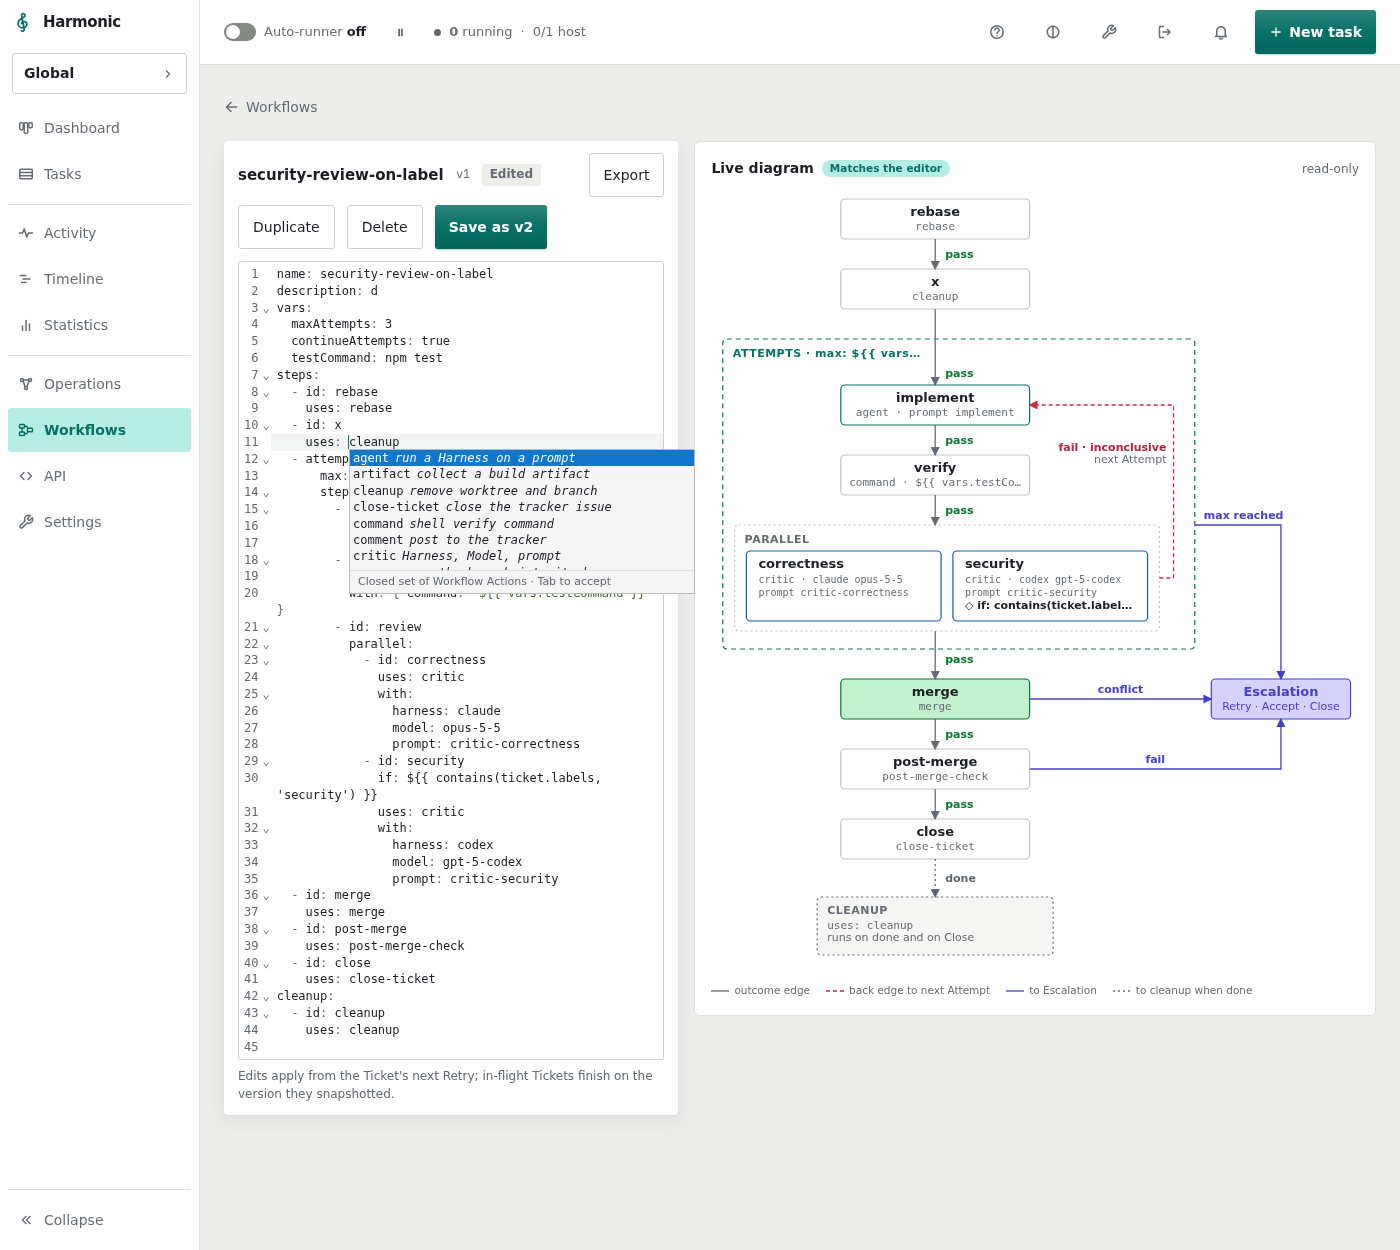
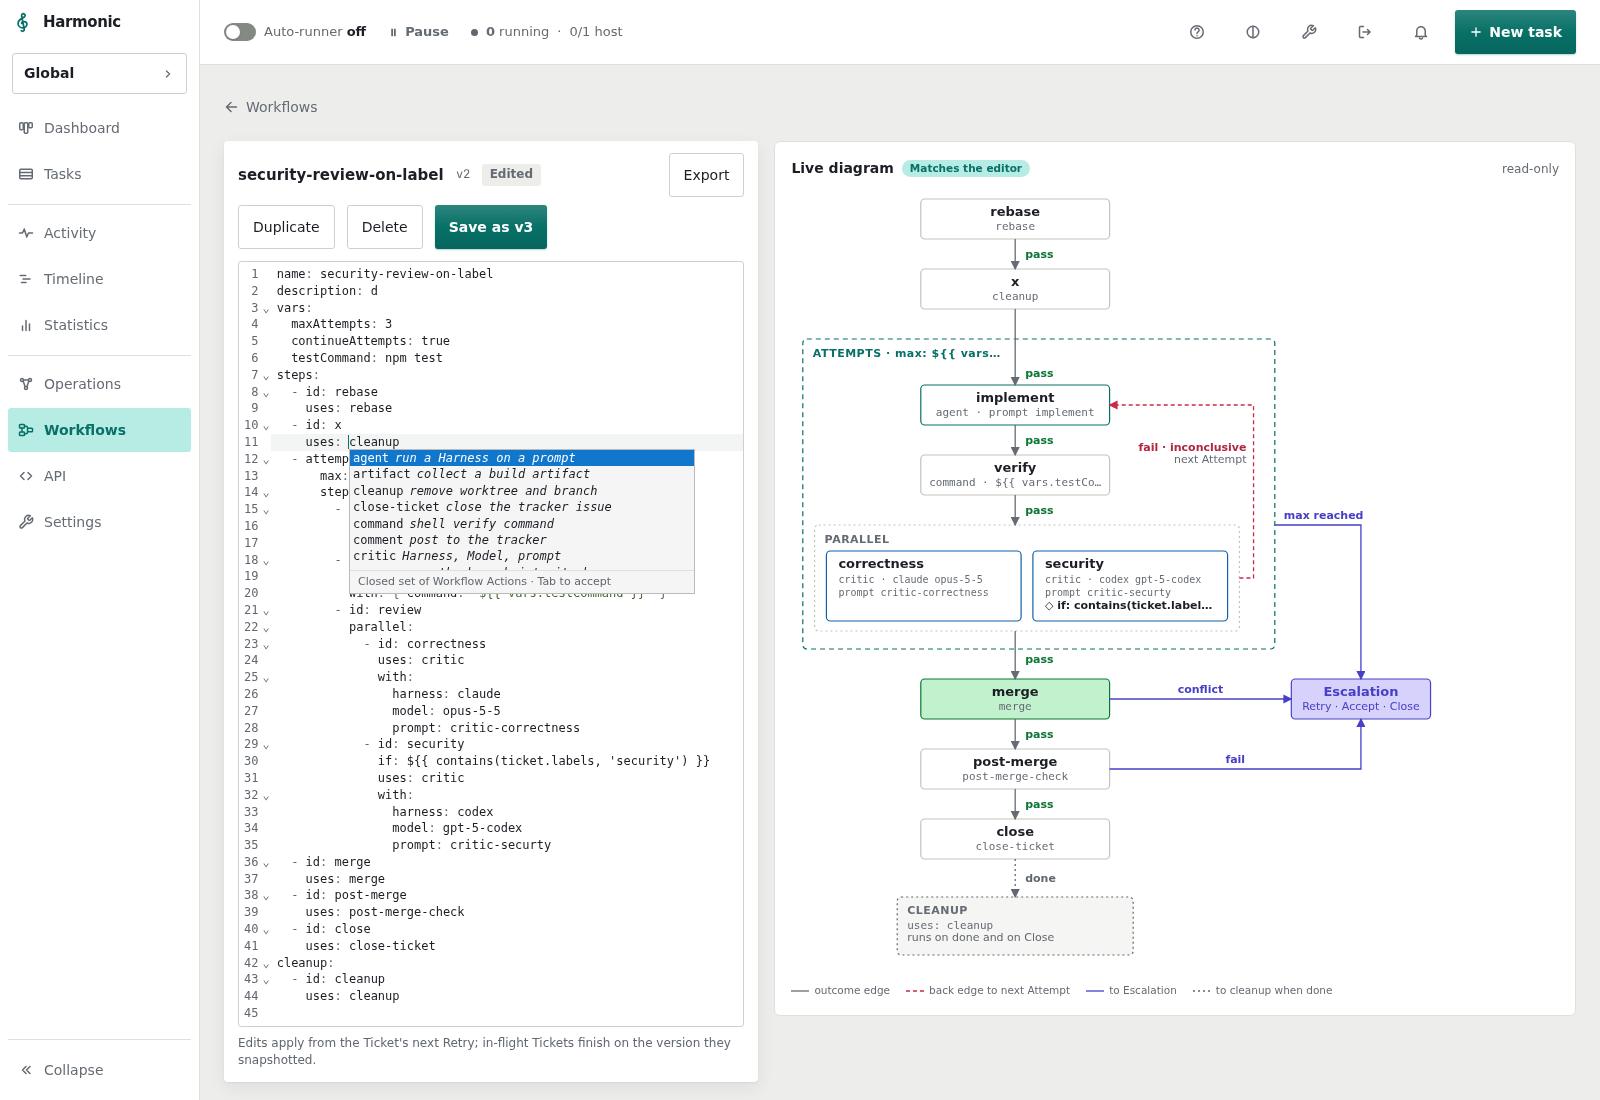
fix(workflows): error list, schema/server source tags and red line numbers in the editor (#920)
Server save refusals are now tagged server next to client schema errors, and
the editor keeps one last-valid-parse mechanism instead of a test-only stale
path in validateWorkflowText. Screenshots re-shot, including a server-refusal
shot.

diff --git a/web/src/components/workflows/YamlEditor.tsx b/web/src/components/workflows/YamlEditor.tsx
@@ -1,22 +1,21 @@
 import { useEffect, useRef } from 'react';
-import { Compartment, EditorState, StateEffect, StateField, type Extension } from '@codemirror/state';
-import { Decoration, EditorView, WidgetType, type DecorationSet } from '@codemirror/view';
+import { Compartment, EditorState, RangeSet, StateEffect, StateField, type Extension } from '@codemirror/state';
+import { Decoration, EditorView, GutterMarker, WidgetType, gutterLineClass, type DecorationSet } from '@codemirror/view';
 import { basicSetup } from 'codemirror';
 import { acceptCompletion, type CompletionContext } from '@codemirror/autocomplete';
 import { keymap } from '@codemirror/view';
 import { completeWorkflow } from '../../../../src/domain/workflow-completion.js';
 import { LanguageDescription, syntaxHighlighting } from '@codemirror/language';
 import { languages } from '@codemirror/language-data';
-import type { WorkflowIssue } from '../../types';
-import { messageParts } from '../../workflow-editor-model';
+import { messageParts, type WorkflowEditorIssue } from '../../workflow-editor-model';
 import { paperHighlight, paperTheme } from '../CodeViewer';
 
 class IssueWidget extends WidgetType {
-  constructor(private readonly issue: WorkflowIssue) {
+  constructor(private readonly issue: WorkflowEditorIssue) {
     super();
   }
   eq(other: IssueWidget) {
-    return other.issue.line === this.issue.line && other.issue.column === this.issue.column && other.issue.message === this.issue.message;
+    return other.issue.line === this.issue.line && other.issue.column === this.issue.column && other.issue.message === this.issue.message && other.issue.source === this.issue.source;
   }
   toDOM() {
     const el = document.createElement('div');
@@ -24,16 +23,22 @@ class IssueWidget extends WidgetType {
     el.setAttribute('role', 'alert');
     el.dataset.line = String(this.issue.line);
     el.dataset.column = String(this.issue.column);
-    el.append(`Line ${this.issue.line}, col ${this.issue.column}: `);
+    const source = document.createElement('span');
+    source.className = 'cm-issue-src';
+    source.textContent = this.issue.source;
+    const where = document.createElement('b');
+    where.textContent = `Line ${this.issue.line}, col ${this.issue.column}:`;
+    const message = document.createElement('span');
     for (const part of messageParts(this.issue.message)) {
-      if (!part.code) el.append(part.text);
+      if (!part.code) message.append(part.text);
       else {
         const chip = document.createElement('code');
         chip.className = 'cm-issue-chip';
         chip.textContent = part.text;
-        el.append(chip);
+        message.append(chip);
       }
     }
+    el.append(source, where, message);
     return el;
   }
 }
@@ -44,9 +49,9 @@ const completionSource = (ctx: CompletionContext) => {
   return { from: hit.from, options: hit.options.map((o) => ({ label: o.label, detail: o.detail, type: 'keyword' })), validFor: /^[\w-]*$/ };
 };
 
-const setIssues = StateEffect.define<readonly WorkflowIssue[]>();
+const setIssues = StateEffect.define<readonly WorkflowEditorIssue[]>();
 
-function buildDecorations(state: EditorState, issues: readonly WorkflowIssue[]): DecorationSet {
+function buildDecorations(state: EditorState, issues: readonly WorkflowEditorIssue[]): DecorationSet {
   const ranges = [];
   for (const issue of issues) {
     const line = state.doc.line(Math.min(Math.max(issue.line, 1), state.doc.lines));
@@ -62,6 +67,26 @@ function buildDecorations(state: EditorState, issues: readonly WorkflowIssue[]):
   return Decoration.set(ranges, true);
 }
 
+class IssueGutterMarker extends GutterMarker {
+  elementClass = 'cm-issue-gutter';
+}
+
+const issueGutterMarker = new IssueGutterMarker();
+
+function buildGutter(state: EditorState, issues: readonly WorkflowEditorIssue[]): RangeSet<GutterMarker> {
+  const lines = new Set(issues.map((issue) => state.doc.line(Math.min(Math.max(issue.line, 1), state.doc.lines)).from));
+  return RangeSet.of([...lines].map((from) => issueGutterMarker.range(from)), true);
+}
+
+const gutterField = StateField.define<RangeSet<GutterMarker>>({
+  create: () => RangeSet.empty,
+  update(value, tr) {
+    for (const effect of tr.effects) if (effect.is(setIssues)) return buildGutter(tr.state, effect.value);
+    return tr.docChanged ? RangeSet.empty : value;
+  },
+  provide: (field) => gutterLineClass.from(field),
+});
+
 const issueField = StateField.define<DecorationSet>({
   create: () => Decoration.none,
   update(value, tr) {
@@ -75,7 +100,10 @@ const issueTheme = EditorView.theme({
   '.cm-issue-line': { backgroundColor: 'var(--hm-fail-tint)' },
   '.cm-issue-mark': { textDecoration: 'underline wavy var(--hm-fail)' },
   '.cm-issue-chip': { fontFamily: 'var(--font-code, monospace)', background: 'var(--hm-surface)', padding: '0 4px', borderRadius: '3px' },
-  '.cm-issue-message': { backgroundColor: 'var(--hm-fail-tint)', color: 'var(--hm-fail)', padding: '3px 12px 4px', fontFamily: 'var(--font-sans, inherit)', fontSize: '12px' },
+  '.cm-issue-message': { backgroundColor: 'var(--hm-fail-tint)', color: 'var(--hm-fail)', padding: '3px 12px 4px', fontFamily: 'var(--font-sans, inherit)', fontSize: '12px', display: 'flex', gap: '8px', alignItems: 'baseline' },
+  '.cm-issue-src': { fontSize: '10px', fontWeight: 700, textTransform: 'uppercase', letterSpacing: '.06em', color: 'var(--hm-muted)', flex: 'none' },
+  '.cm-issue-message b': { fontWeight: 600, whiteSpace: 'nowrap' },
+  '.cm-gutterElement.cm-issue-gutter': { color: 'var(--hm-fail)', fontWeight: 700, background: 'var(--hm-fail-tint)' },
   '&': { backgroundColor: 'transparent' },
   '.cm-completionIcon': { display: 'none' },
   '.cm-tooltip-autocomplete::after': { content: '"Closed set of Workflow Actions · Tab to accept"', display: 'block', padding: '3px 8px', fontSize: '11px', color: 'var(--hm-faint)', borderTop: '1px solid var(--hm-hairline)' },
@@ -90,7 +118,7 @@ export function YamlEditor({
 }: {
   text: string;
   readOnly: boolean;
-  issues: readonly WorkflowIssue[];
+  issues: readonly WorkflowEditorIssue[];
   onChange: (text: string) => void;
   onSave: () => void;
 }) {
@@ -117,6 +145,7 @@ export function YamlEditor({
       paperTheme,
       issueTheme,
       issueField,
+      gutterField,
       language.of([]),
       EditorState.languageData.of(() => [{ autocomplete: completionSource }]),
       keymap.of([{ key: 'Tab', run: acceptCompletion }]),

diff --git a/web/src/components/workflows/WorkflowEditor.tsx b/web/src/components/workflows/WorkflowEditor.tsx
@@ -10,7 +10,7 @@ import { Icon } from '../Icon';
 import { downloadText } from './download';
 import { YamlEditor } from './YamlEditor';
 import { WorkflowDiagram } from '../WorkflowDiagram';
-import { validateWorkflowText } from '../../workflow-editor-model';
+import { messageParts, toEditorIssues, validateWorkflowText } from '../../workflow-editor-model';
 import type { WorkflowDiagramModel } from '../../../../src/domain/workflow-diagram.js';
 import { deleteBlock, editorReducer, editorStatus, initialEditor, issuesOf, type EditorStatusKind } from './workflows-model';
 
@@ -62,10 +62,10 @@ function EditorBody({
   const [state, dispatch] = useReducer(editorReducer, initialEditor(doc.text, doc.version));
   const [confirmingDelete, setConfirmingDelete] = useState(false);
   const [lastGood, setLastGood] = useState<WorkflowDiagramModel | null>(null);
-  const parsed = useMemo(() => validateWorkflowText(state.text, null), [state.text]);
+  const parsed = useMemo(() => validateWorkflowText(state.text), [state.text]);
   if (parsed.diagram !== null && parsed.diagram !== lastGood) setLastGood(parsed.diagram);
-  const live = parsed.diagram === null ? { ...parsed, diagram: lastGood, stale: lastGood !== null } : parsed;
-  const issues = useMemo(() => [...live.issues, ...state.issues], [live.issues, state.issues]);
+  const live = { issues: parsed.issues, diagram: parsed.diagram ?? lastGood, stale: parsed.diagram === null && lastGood !== null };
+  const issues = useMemo(() => [...live.issues, ...toEditorIssues(state.issues, 'server')], [live.issues, state.issues]);
   const status = editorStatus({ ...state, issues });
   const blocked = deleteBlock(entry);
   const readOnly = doc.bundled;
@@ -142,6 +142,28 @@ function EditorBody({
             <span className="font-semibold text-ink">Read-only.</span>
             <span>Bundled workflows ship with Harmonic and are upgraded with it. Duplicate this one to edit a copy.</span>
           </div>
+        </div>
+      )}
+      {issues.length > 0 && (
+        <div className="px-3.5 pb-2">
+          <ul aria-label="Workflow errors" className="m-0 list-none p-0 text-small text-fail">
+            {issues.map((issue, i) => (
+              <li key={i} className="flex gap-2 py-0.5">
+                <span className="min-w-[76px] whitespace-nowrap font-data text-label text-muted">Line {issue.line}, col {issue.column}</span>
+                <span>
+                  {messageParts(issue.message).map((part, j) =>
+                    part.code ? (
+                      <code key={j} className="rounded-sm bg-raised px-1 font-data text-ink">
+                        {part.text}
+                      </code>
+                    ) : (
+                      part.text
+                    ),
+                  )}
+                </span>
+              </li>
+            ))}
+          </ul>
         </div>
       )}
       <div className="px-3.5">

diff --git a/tests/workflow-editor.test.ts b/tests/workflow-editor.test.ts
@@ -2,7 +2,7 @@
 import { act, createElement } from 'react';
 import { EditorView } from '@codemirror/view';
 import { afterEach, beforeEach, describe, expect, it, vi } from 'vitest';
-import { api } from '../web/src/api.js';
+import { ApiError, api } from '../web/src/api.js';
 import { WorkflowsPage } from '../web/src/components/workflows/WorkflowsPage.js';
 import { cleanup, flush, mountComponent } from './component-smoke-harness.js';
 
@@ -44,5 +44,50 @@ describe('Workflow editor live validation', () => {
     expect(host.querySelector('.cm-issue-message')?.textContent).toContain('Line 11');
     expect(button(host, 'Save')!.disabled).toBe(true);
     expect(button(host, 'Save')!.textContent).toContain('1 error');
+  });
+
+  const openEditor = async () => {
+    const host = await mountComponent(createElement(WorkflowsPage));
+    await act(async () => {
+      (host.querySelector('tbody tr td button') as HTMLElement).click();
+      await flush();
+    });
+    return { host, view: EditorView.findFromDOM(host.querySelector('.cm-editor') as HTMLElement)! };
+  };
+
+  it('lists errors above the editor, marks the gutter, and keeps the last valid diagram as Stale', async () => {
+    const { host, view } = await openEditor();
+    expect(host.querySelector('[aria-label="Workflow errors"]')).toBeNull();
+    expect(host.textContent).toContain('Matches the editor');
+    await act(async () => {
+      view.dispatch({ changes: { from: view.state.doc.length, insert: '          retries: 3\n' } });
+      await flush();
+    });
+    const rows = [...host.querySelectorAll('[aria-label="Workflow errors"] li')];
+    expect(rows).toHaveLength(1);
+    expect(rows[0]!.textContent).toContain('Line 11, col 11');
+    expect(rows[0]!.textContent).toContain('unknown key: retries');
+    expect(host.querySelector('.cm-issue-src')?.textContent).toBe('schema');
+    expect(host.querySelector('.cm-gutterElement.cm-issue-gutter')).not.toBeNull();
+    expect(host.querySelector('[data-stale="true"]')).not.toBeNull();
+    expect(host.textContent).toContain('Stale');
+  });
+
+  it('tags a server refusal row as server', async () => {
+    const { host, view } = await openEditor();
+    vi.spyOn(api, 'saveWorkflow').mockRejectedValue(new ApiError(422, 'refused', null, null, [{ line: 2, column: 1, message: 'description is taken' }]));
+    await act(async () => {
+      view.dispatch({ changes: { from: 0, to: 0, insert: '# note\n' } });
+      await flush();
+    });
+    await act(async () => {
+      button(host, 'Save')!.click();
+      await flush();
+    });
+    const rows = [...host.querySelectorAll('[aria-label="Workflow errors"] li')];
+    expect(rows).toHaveLength(1);
+    expect(rows[0]!.textContent).toContain('Line 2, col 1');
+    expect(rows[0]!.textContent).toContain('description is taken');
+    expect(host.querySelector('.cm-issue-src')?.textContent).toBe('server');
   });
 });

diff --git a/tests/workflow-editor-model.test.ts b/tests/workflow-editor-model.test.ts
@@ -6,34 +6,21 @@ const bad = good.replace('uses: agent', 'uses: agent\n          retries: 3');
 
 describe('validateWorkflowText', () => {
   it('builds a diagram for valid text', () => {
-    const r = validateWorkflowText(good, null);
+    const r = validateWorkflowText(good);
     expect(r.issues).toEqual([]);
     expect(r.diagram).not.toBeNull();
-    expect(r.stale).toBe(false);
   });
 
-  it('flags an unknown key at its line, keeps the last diagram as stale, and recovers', () => {
-    const first = validateWorkflowText(good, null);
-    const r = validateWorkflowText(bad, first.diagram);
+  it('flags an unknown key at its line with a null diagram', () => {
+    const r = validateWorkflowText(bad);
     expect(r.issues).toEqual([{ line: 11, column: 11, message: 'unknown key: retries', source: 'schema' }]);
-    expect(r.diagram).toBe(first.diagram);
-    expect(r.stale).toBe(true);
-    const fixed = validateWorkflowText(good, r.diagram);
-    expect(fixed.issues).toEqual([]);
-    expect(fixed.stale).toBe(false);
-  });
-
-  it('has no stale diagram when nothing valid was ever parsed', () => {
-    const r = validateWorkflowText(bad, null);
     expect(r.diagram).toBeNull();
-    expect(r.stale).toBe(false);
   });
-
 });
 
 describe('step-list unknown key hint', () => {
   it('suggests attempts for retries as a step entry', () => {
-    const r = validateWorkflowText(['name: w', 'description: d', 'steps:', '  - retries: 2', ''].join('\n'), null);
+    const r = validateWorkflowText(['name: w', 'description: d', 'steps:', '  - retries: 2', ''].join('\n'));
     expect(r.issues[0]!.message).toContain('(did you mean attempts?)');
   });
 });

diff --git a/web/src/workflow-editor-model.ts b/web/src/workflow-editor-model.ts
@@ -12,26 +12,24 @@ export interface WorkflowEditorIssue {
 export interface WorkflowEditorValidation {
   issues: WorkflowEditorIssue[];
   diagram: WorkflowDiagramModel | null;
-  stale: boolean;
 }
 
 export function toEditorIssues(issues: readonly ErrorIssue[], source: WorkflowEditorIssue['source']): WorkflowEditorIssue[] {
   return issues.map((i) => ({ line: i.line, column: i.column, message: i.message, source }));
 }
 
-export function validateWorkflowText(text: string, prev: WorkflowDiagramModel | null): WorkflowEditorValidation {
+export function validateWorkflowText(text: string): WorkflowEditorValidation {
   try {
-    return { issues: [], diagram: buildWorkflowDiagram(parseWorkflow(text)), stale: false };
+    return { issues: [], diagram: buildWorkflowDiagram(parseWorkflow(text)) };
   } catch (error) {
     const issues = (error as { issues?: ErrorIssue[] }).issues;
     const found = issues?.length ? toEditorIssues(issues, 'schema') : [{ line: 1, column: 1, message: error instanceof Error ? error.message : 'invalid workflow', source: 'schema' as const }];
-    return { issues: found, diagram: prev, stale: prev !== null };
+    return { issues: found, diagram: null };
   }
 }
 
 export interface MessagePart { text: string; code: boolean }
 
-/** Splits `unknown key: x (did you mean y?)` so the offending token and the suggestion render as code chips. */
 export function messageParts(message: string): MessagePart[] {
   const m = /^unknown key: (\S+?)(?: \(did you mean (\S+?)\?\))?$/.exec(message);
   if (!m) return [{ text: message, code: false }];

diff --git a/tests/workflows-page.test.ts b/tests/workflows-page.test.ts
@@ -104,7 +104,7 @@ describe('Workflows page', () => {
     expect(flagged).toHaveLength(1);
     expect(flagged[0]!.textContent).toContain('retries: 1');
     expect(flagged[0]!.getAttribute('data-issue-line')).toBe('5');
-    expect(host.querySelector('.cm-issue-message')!.textContent).toBe('Line 5, col 5: unknown key: retries');
+    expect(host.querySelector('.cm-issue-message')!.textContent).toBe('serverLine 5, col 5:unknown key: retries');
     expect(host.textContent).toContain('1 error');
     expect((button(host, 'Save · 1 error') as HTMLButtonElement).disabled).toBe(true);
 

diff --git a/src/domain/workflow.ts b/src/domain/workflow.ts
@@ -44,7 +44,6 @@ function editDistance(a: string, b: string): number {
   return prev[b.length]!;
 }
 
-/** The valid name closest to a mistyped one: a known synonym, or within two edits. */
 export function didYouMean(input: string, candidates: readonly string[]): string | undefined {
   const alias = KEY_ALIASES[input];
   if (alias !== undefined && candidates.includes(alias)) return alias;
